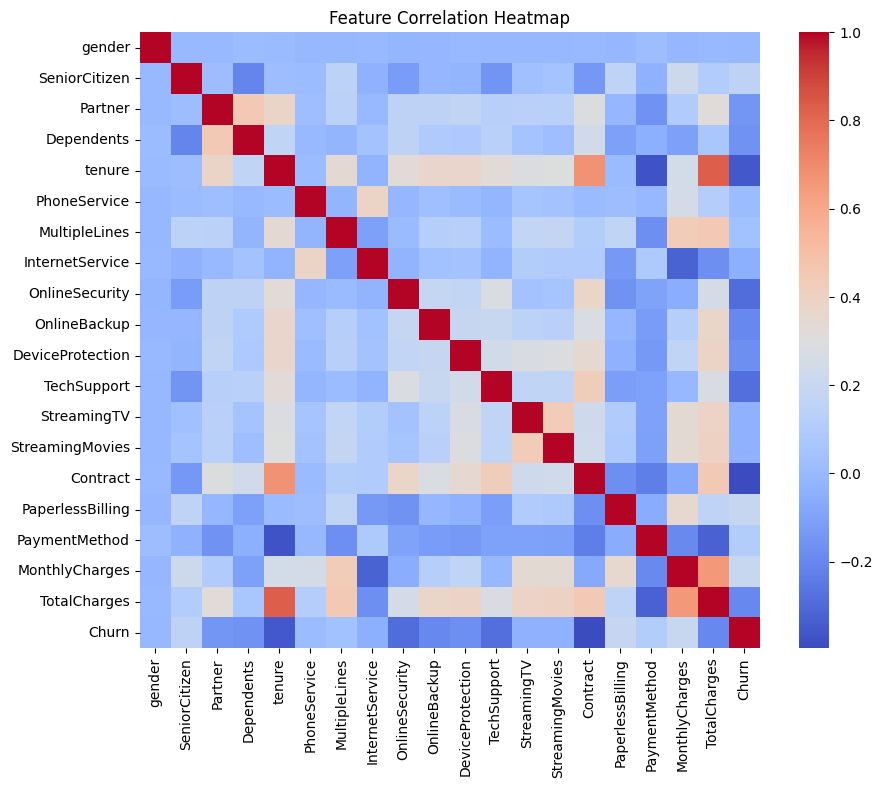
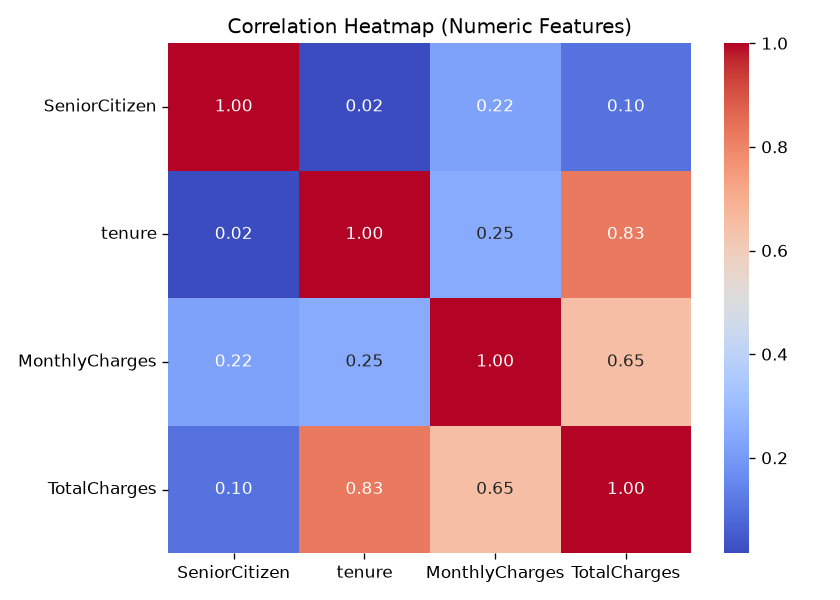
Replace model plots with reproduced results and embed figures in README

diff --git a/README.md b/README.md
@@ -2,6 +2,17 @@
 
 **Xinyu Jia (C00304524)** — Data Science & Machine Learning Portfolio (Draft)
 
+This project uses a Random Forest classifier to predict telecom customer churn, identifies the main drivers of leaving, and turns the findings into practical retention recommendations.
+
+## Repository Structure
+
+| File / Folder | Purpose |
+|---|---|
+| `Telco_Churn_Prediction.ipynb` | Full annotated notebook: data loading, cleaning, EDA, model training and evaluation |
+| `README.md` | Written overview of the complete workflow (this file) |
+| `DSML spec .docx` | Approved project specification |
+| `plots/` | EDA and model output figures |
+
 ## 1. Aim
 
 This project builds a binary-classification model to predict whether a telecom customer will leave the service (churn = Yes). The two questions it tries to answer are:
@@ -13,13 +24,25 @@ The practical goal is to point out high-risk customer groups so the company can 
 
 ## 2. Dataset
 
-- **Source:** Telco Customer Churn dataset on Kaggle (simulated data originally created by IBM for education; no real private customer information).
+- **Name:** Telco Customer Churn
+- **Source:** Kaggle dataset uploaded by BlastChar; simulated data originally created by IBM for educational use.
 - **Raw data:** 7,043 rows × 21 columns.
 - **Target variable:** `Churn` — `Yes` = customer left, `No` = customer stayed.
 - **Features:** demographics (gender, senior citizen, partner, dependents), `tenure`, subscribed services, `Contract`, `MonthlyCharges`, `TotalCharges`, `PaymentMethod`, etc.
 - **After cleaning:** 7,032 rows × 20 columns; `No` = 5,163, `Yes` = 1,869 (about 26.6% churned). The dataset is therefore mildly imbalanced.
+- **Licence / privacy:** publicly shared on Kaggle for educational exploration; the data are simulated and contain no real customer private information.
 
-## 3. Data Preprocessing
+**Why this dataset was chosen:** it combines categorical and numeric features with clear business meaning, it is large enough for a binary-classification task but does not require heavy cleaning, and the churn topic has a direct retention use case. It is also a standard reference dataset, which makes the results easier to compare and interpret.
+
+## 3. Tools and Libraries
+
+- **Language:** Python
+- **Data handling:** pandas, NumPy
+- **Visualisation:** Matplotlib, Seaborn
+- **Modelling:** scikit-learn (`RandomForestClassifier`, `train_test_split`, classification metrics, confusion matrix, ROC)
+- **Environment:** Google Colab (Jupyter notebook)
+
+## 4. Data Preprocessing
 
 Steps applied before modelling:
 
@@ -31,52 +54,63 @@ Steps applied before modelling:
    - Train set: 5,625 rows
    - Test set: 1,407 rows (unseen by the model during training)
 
-## 4. Exploratory Data Analysis (EDA)
+## 5. Exploratory Data Analysis (EDA)
 
-### 4.1 Overall churn
+### 5.1 Overall churn
 
 ![Churn distribution](plots/02_churn_distribution.png)
 
 Most customers stayed, but roughly one in four churned, so the minority class still matters for retention decisions.
 
-### 4.2 Contract type
+### 5.2 Contract type
 
 ![Churn by contract](plots/03_churn_by_contract.png)
 
 Customers on **month-to-month** contracts churn far more often than customers on one-year or two-year contracts. Long contracts clearly reduce switching.
 
-### 4.3 Monthly charges
+### 5.3 Monthly charges
 
 ![Monthly charges by churn](plots/04_monthly_charges_boxplot.png)
 
 Customers who churned generally pay a higher monthly charge; the median `MonthlyCharges` for churned customers is higher than for those who stayed.
 
-### 4.4 Payment method
+### 5.4 Payment method
 
 ![Churn by payment method](plots/06_churn_by_payment.png)
 
 **Electronic check** users show the highest churn, while automatic payment methods (bank transfer, credit card) have much lower churn counts.
 
-### 4.5 Correlation patterns
+### 5.5 Correlation and feature relationships
+
+![Feature correlation with churn](plots/10_feature_correlation_churn.png)
+
+![Numeric correlation heatmap](plots/05_correlation_heatmap.png)
 
 The correlation analysis shows that `tenure` (time with the company) moves against churn: long-standing customers are less likely to leave. Higher `MonthlyCharges` and `TotalCharges` trend toward higher churn. On the categorical side, month-to-month contract, electronic-check payment and fiber-optic service are positively associated with churn, while a two-year contract and add-on security/technical-support services are negatively associated with it.
 
-## 5. Model
+## 6. Model
 
-A **Random Forest Classifier** was chosen because it handles a mix of categorical and numeric features, captures non-linear relationships, and outputs feature importance that can be interpreted for business decisions.
+A **Random Forest Classifier** was chosen for this task:
+
+- It handles a mix of categorical and numeric features without requiring feature scaling.
+- It captures non-linear relationships and interactions between features.
+- It reduces overfitting compared with a single decision tree by averaging many trees.
+- It outputs feature importance, which supports business interpretation.
 
 - Algorithm: `RandomForestClassifier(n_estimators=100, random_state=42)`
 - Input: 30 one-hot encoded features
-- Trained on the 80% training split; evaluated on the held-out 20% test split.
+- Trained on the 80% training split; predictions and evaluation were made on the held-out 20% test split.
 
-## 6. Model Evaluation
+## 7. Model Evaluation
 
-### 6.1 Main metrics
+### 7.1 Main metrics
 
 | Metric | Value |
 |---|---|
 | Accuracy | 0.7896 |
 | ROC-AUC | 0.8165 |
+
+![ROC curve](plots/11_roc_curve.png)
 
 Classification report on the test set:
 
@@ -88,37 +122,47 @@ Classification report on the test set:
 | Macro avg | 0.73 | 0.70 | 0.71 | 1,407 |
 | Weighted avg | 0.78 | 0.79 | 0.78 | 1,407 |
 
-### 6.2 Confusion matrix
+![Classification report](plots/09_classification_report.png)
+
+### 7.2 Confusion matrix
 
 | Actual \ Predicted | Predicted Stayed | Predicted Churned |
 |---|---|---|
 | Actual Stayed | 917 (TN) | 116 (FP) |
 | Actual Churned | 180 (FN) | 194 (TP) |
 
+![Confusion matrix](plots/07_confusion_matrix.png)
+
 **Reading the results:** the model predicts staying customers reliably (recall 0.89). It identifies about half of the customers who actually churned (churn recall 0.52), meaning many churners are still missed. Because the classes are imbalanced, accuracy alone can be misleading; the ROC-AUC of 0.8165 shows the model separates the two classes reasonably well overall.
 
-### 6.3 Feature importance
+### 7.3 Feature importance
 
-The most influential features (see the feature-importance plot in the notebook) are:
+![Feature importance](plots/08_feature_importance.png)
+
+The most influential features are:
 
 `TotalCharges`, `tenure`, `MonthlyCharges`, `InternetService_Fiber optic`, `PaymentMethod_Electronic check`, and `Contract_Two year`. This matches the EDA findings: shorter tenure, higher charges, fiber service, and electronic-check payment are associated with higher churn risk.
 
-## 7. Conclusion and Business Recommendations
+## 8. Conclusion and Business Recommendations
 
 - **Longer contracts reduce churn.** Offer discounts or bundled plans to move month-to-month customers toward one-year / two-year contracts.
 - **Replace electronic check with automatic payment.** Encourage bank-transfer or credit-card auto-pay, possibly with a small incentive.
 - **Target high-risk segments.** Short-tenure, high-monthly-charge fiber customers should receive early retention offers before they leave.
 - **Act on missed churners.** The churn recall (0.52) means the current model should be used as a risk flag rather than a final decision; human review of flagged customers remains necessary.
 
-## 8. Limitations and Future Work
+## 9. Limitations and Future Work
 
-- The data is simulated and educational, so conclusions are for academic demonstration rather than direct commercial use.
+- The data are simulated and educational, so conclusions are for academic demonstration rather than direct commercial use.
 - Churn-class recall is moderate (0.52). Future improvements: class weighting or SMOTE to handle imbalance, adjusting the decision threshold, hyper-parameter tuning (e.g. grid search), and comparing Random Forest with Logistic Regression or Gradient Boosting.
 
-## 9. References
+## 10. References
 
-1. Telco Customer Churn dataset, Kaggle (BlastChar; simulated IBM data).
-2. Scikit-learn documentation — `RandomForestClassifier`, `train_test_split`, metrics.
-3. pandas and seaborn documentation for data handling and plotting.
+1. Telco Customer Churn dataset, Kaggle, uploaded by BlastChar (simulated IBM data): https://www.kaggle.com/datasets/blastchar/telco-customer-churn (accessed November 2026).
+2. Scikit-learn documentation — `RandomForestClassifier`, `train_test_split`, classification metrics: https://scikit-learn.org/stable/ (accessed November 2026).
+3. pandas documentation: https://pandas.pydata.org/docs/ ; Seaborn documentation: https://seaborn.pydata.org/ (accessed November 2026).
 
-> Notebook: `Telco_Churn_Prediction.ipynb` (full code, plots and outputs). Dataset CSV is excluded from the repository per course guidance; source link above.
+## Reproducibility and Originality
+
+- `random_state=42` is fixed so the train/test split and model results can be reproduced.
+- This draft was completed independently for the continuous assessment; all referenced tools and the dataset are listed above.
+- The dataset CSV is excluded from the repository per course guidance; the source link is provided in References.
